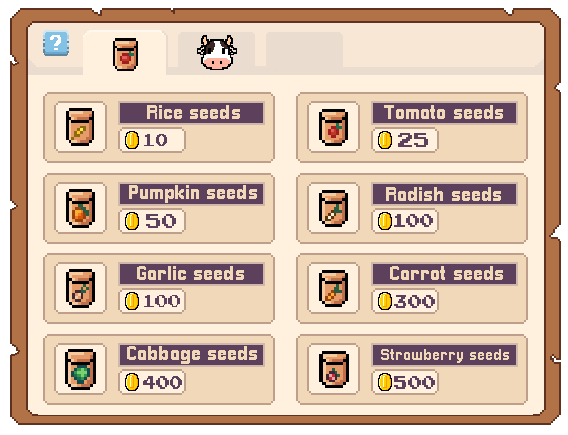
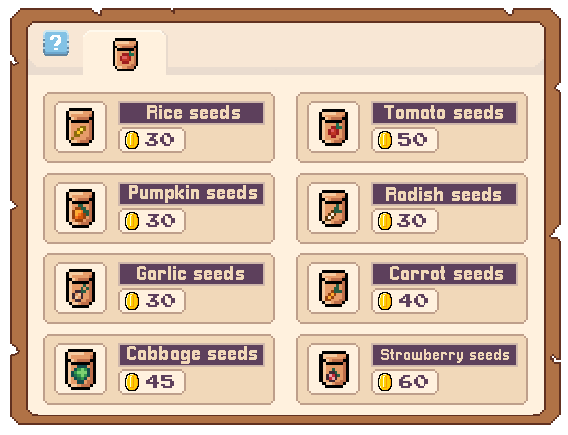
Shop Animation and Money Logic in Shop

diff --git a/RusticaDays/core/src/main/java/com/mygdx/game/ui/ShopUI.java b/RusticaDays/core/src/main/java/com/mygdx/game/ui/ShopUI.java
@@ -27,7 +27,9 @@ public class ShopUI{
     private BitmapFont font;
     private Texture ShopUI;
     private Texture closeButton;
+    private Texture closeButtonPressed;
     private Texture BuyButton;
+    private Texture BuyButtonPressed;
     private boolean isShopOpen;
 
     // Các thuộc tính hiển thị
@@ -43,6 +45,7 @@ public class ShopUI{
 
     private InventoryUI inventoryUI;
     private InventoryManager inventoryManager;
+    private StatsBar statsBar;
 
     //Nút mua vật phẩm
     private Rectangle buyRiceButtonRectangle;
@@ -57,17 +60,34 @@ public class ShopUI{
     // List Danh sách hạt giống trong cửa hàng
     private List<Seed> seedItems;
 
-    public ShopUI(InventoryManager inventoryManager,InventoryUI inventoryUI) {
+    // Biến để theo dõi nút đang được nhấn
+    private Rectangle pressedButton;
+    private boolean isCloseButtonPressed;
+
+    // Giá của các loại hạt giống
+    private static final int RICE_SEED_PRICE = 30;
+    private static final int TOMATO_SEED_PRICE = 50;
+    private static final int CARROT_SEED_PRICE = 40;
+    private static final int CABBAGE_SEED_PRICE = 45;
+    private static final int STRAWBERRY_SEED_PRICE = 60;
+    private static final int PUMPKIN_SEED_PRICE = 30;
+    private static final int GARLIC_SEED_PRICE = 30;
+    private static final int RADISH_SEED_PRICE = 30;
+
+    public ShopUI(InventoryManager inventoryManager, InventoryUI inventoryUI, StatsBar statsBar) {
         shapeRenderer = new ShapeRenderer();
         font = new BitmapFont();
         font.getData().setScale(1.2f);
         this.isShopOpen = true;
         this.inventoryManager = inventoryManager;
         this.inventoryUI = inventoryUI;
+        this.statsBar = statsBar;
         // Load Texture
         ShopUI = new Texture("ShopUI.png");
         closeButton = new Texture("CloseButton.png");
+        closeButtonPressed = new Texture("CloseButtonPressed.png");
         BuyButton = new Texture("BuyButton.png");
+        BuyButtonPressed = new Texture("BuyButtonPressed.png");
         // Thiết lập kích thước và vị trí cửa hàng
         shopWidth = Gdx.graphics.getWidth() - 300;
         shopHeight = Gdx.graphics.getHeight() - 200;
@@ -93,89 +113,179 @@ public class ShopUI{
             batch.end();
             batch.begin();
             batch.draw(ShopUI, shopX, shopY, shopWidth, shopHeight);
-            batch.draw(closeButton, closeButtonRectangle.x, closeButtonRectangle.y, closeButtonRectangle.width, closeButtonRectangle.height);
-            batch.draw(BuyButton,buyRiceButtonRectangle.x,buyRiceButtonRectangle.y,buyRiceButtonRectangle.width,buyRiceButtonRectangle.height);
-            batch.draw(BuyButton,buyTomatoButtonRectangle.x,buyTomatoButtonRectangle.y,buyTomatoButtonRectangle.width,buyTomatoButtonRectangle.height);
-            batch.draw(BuyButton,buyCarrotButtonRectangle.x,buyCarrotButtonRectangle.y,buyCarrotButtonRectangle.width,buyCarrotButtonRectangle.height);
-            batch.draw(BuyButton,buyStrawberryButtonRectangle.x,buyStrawberryButtonRectangle.y,buyStrawberryButtonRectangle.width,buyStrawberryButtonRectangle.height);
-            batch.draw(BuyButton,buyCabbageButtonRectangle.x,buyCabbageButtonRectangle.y,buyCabbageButtonRectangle.width,buyCabbageButtonRectangle.height);
-            batch.draw(BuyButton,buyPumpkinButtonRectangle.x,buyPumpkinButtonRectangle.y,buyPumpkinButtonRectangle.width,buyPumpkinButtonRectangle.height);
-            batch.draw(BuyButton,buyGarlicButtonRectangle.x,buyGarlicButtonRectangle.y,buyGarlicButtonRectangle.width,buyGarlicButtonRectangle.height);
-            batch.draw(BuyButton,buyRadishButtonRectangle.x,buyRadishButtonRectangle.y,buyRadishButtonRectangle.width,buyRadishButtonRectangle.height);
+            
+            // Vẽ nút đóng với texture tương ứng
+            if (isCloseButtonPressed) {
+                batch.draw(closeButtonPressed, closeButtonRectangle.x, closeButtonRectangle.y, closeButtonRectangle.width, closeButtonRectangle.height);
+            } else {
+                batch.draw(closeButton, closeButtonRectangle.x, closeButtonRectangle.y, closeButtonRectangle.width, closeButtonRectangle.height);
+            }
+            
+            // Vẽ các nút Buy với texture tương ứng
+            drawBuyButton(batch, buyRiceButtonRectangle);
+            drawBuyButton(batch, buyTomatoButtonRectangle);
+            drawBuyButton(batch, buyCarrotButtonRectangle);
+            drawBuyButton(batch, buyStrawberryButtonRectangle);
+            drawBuyButton(batch, buyCabbageButtonRectangle);
+            drawBuyButton(batch, buyPumpkinButtonRectangle);
+            drawBuyButton(batch, buyGarlicButtonRectangle);
+            drawBuyButton(batch, buyRadishButtonRectangle);
+            
             handleShopInput();
         }
     }
 
+    private void drawBuyButton(SpriteBatch batch, Rectangle buttonRect) {
+        if (buttonRect == pressedButton) {
+            batch.draw(BuyButtonPressed, buttonRect.x, buttonRect.y, buttonRect.width, buttonRect.height);
+        } else {
+            batch.draw(BuyButton, buttonRect.x, buttonRect.y, buttonRect.width, buttonRect.height);
+        }
+    }
+
     private void handleShopInput() {
+        float mouseX = Gdx.input.getX();
+        float mouseY = Gdx.graphics.getHeight() - Gdx.input.getY();
+
+        // Reset pressedButton if mouse is not pressed
+        if (!Gdx.input.isButtonPressed(Input.Buttons.LEFT)) {
+            pressedButton = null;
+            isCloseButtonPressed = false;
+        }
+
         // Xử lý click chuột
         if (Gdx.input.isButtonJustPressed(Input.Buttons.LEFT)) {
-            float mouseX = Gdx.input.getX();
-            // Chuyển đổi tọa độ Y từ hệ tọa độ chuột sang hệ tọa độ của game
-            float mouseY = Gdx.graphics.getHeight() - Gdx.input.getY();
-
             // Kiểm tra nếu click vào nút đóng
             if (closeButtonRectangle.contains(mouseX, mouseY)) {
+                isCloseButtonPressed = true;
                 isShopOpen = false;
                 System.out.println("Close button clicked, shop is now closed");
             }
+            // Kiểm tra các nút Buy
             else if(buyTomatoButtonRectangle.contains(mouseX, mouseY)) {
-                TomatoSeed tomatoSeed = new TomatoSeed();
-                inventoryManager.addItem(tomatoSeed,1);
-                inventoryUI.updateUI();
-                System.out.println("buy tomato");
+                if (canAfford(TOMATO_SEED_PRICE)) {
+                    pressedButton = buyTomatoButtonRectangle;
+                    TomatoSeed tomatoSeed = new TomatoSeed();
+                    inventoryManager.addItem(tomatoSeed,1);
+                    deductMoney(TOMATO_SEED_PRICE);
+                    inventoryUI.updateUI();
+                    System.out.println("Bought tomato seed for " + TOMATO_SEED_PRICE + " coins");
+                } else {
+                    System.out.println("Not enough money to buy tomato seed!");
+                }
             }
             else if(buyCarrotButtonRectangle.contains(mouseX, mouseY)) {
-                CarrotSeed carrotSeed = new CarrotSeed();
-                inventoryManager.addItem(carrotSeed,1);
-                inventoryUI.updateUI();
-                System.out.println("buy carrot");
+                if (canAfford(CARROT_SEED_PRICE)) {
+                    pressedButton = buyCarrotButtonRectangle;
+                    CarrotSeed carrotSeed = new CarrotSeed();
+                    inventoryManager.addItem(carrotSeed,1);
+                    deductMoney(CARROT_SEED_PRICE);
+                    inventoryUI.updateUI();
+                    System.out.println("Bought carrot seed for " + CARROT_SEED_PRICE + " coins");
+                } else {
+                    System.out.println("Not enough money to buy carrot seed!");
+                }
             }
             else if (buyCabbageButtonRectangle.contains(mouseX, mouseY)) {
-                EggplantSeed eggplantSeed = new EggplantSeed();
-                inventoryManager.addItem(eggplantSeed,1);
-                inventoryUI.updateUI();
-                System.out.println("buy cabbage");
+                if (canAfford(CABBAGE_SEED_PRICE)) {
+                    pressedButton = buyCabbageButtonRectangle;
+                    EggplantSeed eggplantSeed = new EggplantSeed();
+                    inventoryManager.addItem(eggplantSeed,1);
+                    deductMoney(CABBAGE_SEED_PRICE);
+                    inventoryUI.updateUI();
+                    System.out.println("Bought cabbage seed for " + CABBAGE_SEED_PRICE + " coins");
+                } else {
+                    System.out.println("Not enough money to buy cabbage seed!");
+                }
             }
             else if(buyStrawberryButtonRectangle.contains(mouseX,mouseY)){
-                CornSeed cornSeed = new CornSeed();
-                inventoryManager.addItem(cornSeed,1);
-                inventoryUI.updateUI();
-                System.out.println("buy straw");
+                if (canAfford(STRAWBERRY_SEED_PRICE)) {
+                    pressedButton = buyStrawberryButtonRectangle;
+                    CornSeed cornSeed = new CornSeed();
+                    inventoryManager.addItem(cornSeed,1);
+                    deductMoney(STRAWBERRY_SEED_PRICE);
+                    inventoryUI.updateUI();
+                    System.out.println("Bought strawberry seed for " + STRAWBERRY_SEED_PRICE + " coins");
+                } else {
+                    System.out.println("Not enough money to buy strawberry seed!");
+                }
             }
             else if(buyRiceButtonRectangle.contains(mouseX,mouseY)){
-                RiceSeed riceSeed = new RiceSeed();
-                inventoryManager.addItem(riceSeed,1);
-                inventoryUI.updateUI();
-                System.out.println("buy rice");
+                if (canAfford(RICE_SEED_PRICE)) {
+                    pressedButton = buyRiceButtonRectangle;
+                    RiceSeed riceSeed = new RiceSeed();
+                    inventoryManager.addItem(riceSeed,1);
+                    deductMoney(RICE_SEED_PRICE);
+                    inventoryUI.updateUI();
+                    System.out.println("Bought rice seed for " + RICE_SEED_PRICE + " coins");
+                } else {
+                    System.out.println("Not enough money to buy rice seed!");
+                }
             }
             else if(buyPumpkinButtonRectangle.contains(mouseX,mouseY)){
-                PumpkinSeed pumpkinSeed = new PumpkinSeed();
-                inventoryManager.addItem(pumpkinSeed,1);
-                inventoryUI.updateUI();
-                System.out.println("buy pumpkin");
+                if (canAfford(PUMPKIN_SEED_PRICE)) {
+                    pressedButton = buyPumpkinButtonRectangle;
+                    PumpkinSeed pumpkinSeed = new PumpkinSeed();
+                    inventoryManager.addItem(pumpkinSeed,1);
+                    deductMoney(PUMPKIN_SEED_PRICE);
+                    inventoryUI.updateUI();
+                    System.out.println("Bought pumpkin seed for " + PUMPKIN_SEED_PRICE + " coins");
+                } else {
+                    System.out.println("Not enough money to buy pumpkin seed!");
+                }
             }
             else if (buyRadishButtonRectangle.contains(mouseX,mouseY)) {
-                RadishSeed radishSeed = new RadishSeed();
-                inventoryManager.addItem(radishSeed,1);
-                inventoryUI.updateUI();
-                System.out.println("buy radish");
+                if (canAfford(RADISH_SEED_PRICE)) {
+                    pressedButton = buyRadishButtonRectangle;
+                    RadishSeed radishSeed = new RadishSeed();
+                    inventoryManager.addItem(radishSeed,1);
+                    deductMoney(RADISH_SEED_PRICE);
+                    inventoryUI.updateUI();
+                    System.out.println("Bought radish seed for " + RADISH_SEED_PRICE + " coins");
+                } else {
+                    System.out.println("Not enough money to buy radish seed!");
+                }
             }
             else if(buyGarlicButtonRectangle.contains(mouseX,mouseY)) {
-                GarlicSeed garlicSeed = new GarlicSeed();
-                inventoryManager.addItem(garlicSeed,1);
-                inventoryUI.updateUI();
-                System.out.println("buy garlic");
+                if (canAfford(GARLIC_SEED_PRICE)) {
+                    pressedButton = buyGarlicButtonRectangle;
+                    GarlicSeed garlicSeed = new GarlicSeed();
+                    inventoryManager.addItem(garlicSeed,1);
+                    deductMoney(GARLIC_SEED_PRICE);
+                    inventoryUI.updateUI();
+                    System.out.println("Bought garlic seed for " + GARLIC_SEED_PRICE + " coins");
+                } else {
+                    System.out.println("Not enough money to buy garlic seed!");
+                }
             }
         }
     }
+
     public boolean isShopOpen() {
         return isShopOpen;
     }
+
     public void openShop(boolean status){
         isShopOpen = status;
     }
+
     public void dispose() {
         shapeRenderer.dispose();
         font.dispose();
+        if (BuyButtonPressed != null) {
+            BuyButtonPressed.dispose();
+        }
+        if (closeButtonPressed != null) {
+            closeButtonPressed.dispose();
+        }
+    }
+
+    // Phương thức để kiểm tra và trừ tiền khi mua
+    private boolean canAfford(int price) {
+        return statsBar.getMoney() >= price;
+    }
+
+    private void deductMoney(int amount) {
+        statsBar.setMoney(statsBar.getMoney() - amount);
     }
 }

diff --git a/RusticaDays/core/src/main/java/com/mygdx/game/entities/NPC.java b/RusticaDays/core/src/main/java/com/mygdx/game/entities/NPC.java
@@ -61,7 +61,7 @@ public class NPC extends Sprite {
         shapeRenderer = new ShapeRenderer();
 
         // Khởi tạo giao diện cửa hàng
-        shopUI = new ShopUI(inventoryManager, inventoryUI);
+        shopUI = new ShopUI(inventoryManager, inventoryUI,statsBar);
 
         // Khởi tạo giao diện bán hàng
         sellUI = new SellUI(inventoryManager, inventoryUI, statsBar);
